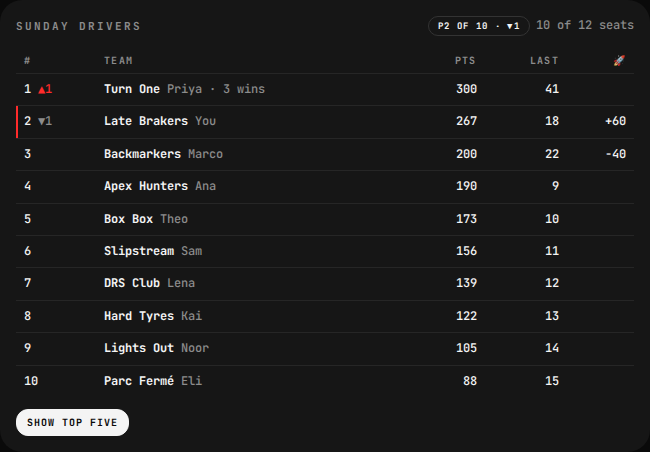
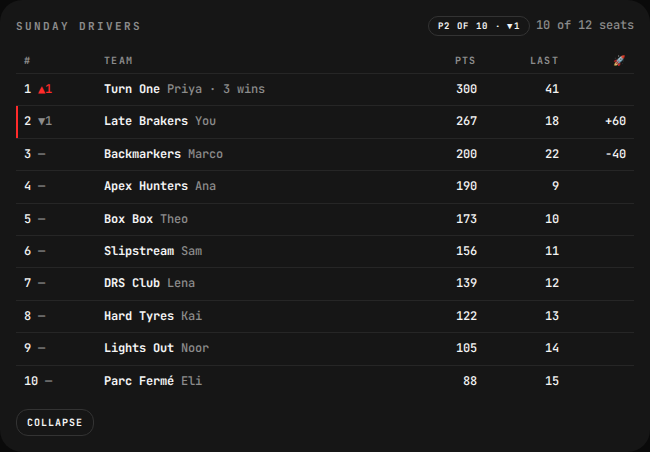
fix(pw): F-114 review — movement from the two server ranks, the table reachable on a phone, no example league for a signed-in reader
ADR-003 review of #194. Movement is previousRank − rank from the server's
fields (they rank every member document, pending ones included), never the
client's filtered index. A league of five or fewer gets a "Show table" chip on
a phone, where the collapsed state is one line. Only the example payload shows
the example league; a signed-in reader renders nothing until the team loads.
Moonshot points read from the member document as in the app; a refused teams
read falls back to member fields; a two-team player shows the first-seen team;
the context-bar league hides once a two-team player switches (it is the first
team's). aria-expanded on the chip, a hidden "(you)" on your row, the dead
`you` class dropped, the access key actually checked. The registry change is
rebuilt on origin/master (the earlier copy carried another branch's F-113 row).
Tests: tie-break by id, the example fixture, server-rank movement.

Changed region(s): [[0.0, 0.8982, 0.2154, 0.9912]]

diff --git a/web/pitwall/src/ui/LeagueTile.tsx b/web/pitwall/src/ui/LeagueTile.tsx
@@ -2,8 +2,9 @@
  * The league your team is in (F-114): name, size, your rank and movement, and the standings —
  * the table the app's league screen shows, read from the same documents. Free: it is the player's
  * own league. The example payload (and so the preview build the scroll budget measures) renders a
- * fixed example league with no request; a signed-in team without a league gets a pointer to the app.
- * Collapsed to the top five plus your row (on a phone, to one line); "Show all" opens it.
+ * fixed example league with no request; a signed-in reader renders nothing until their team has
+ * loaded (like the Moonshot tile), and a team without a league gets a pointer to the app.
+ * Collapsed to the top five plus your row (on a phone, to one line); the chip opens the table.
  */
 import { useEffect, useState } from 'react';
 import { useStore } from '../state';
@@ -12,25 +13,33 @@ import { hasFirebaseConfig } from '../lib/env';
 import { loadLeagueStandings } from '../lib/leagueApi';
 import { exampleStandings, moveLabel, visibleRows, type LeagueStandings } from '../data/leagueStandings';
 import { Lbl, Pill } from './bits';
+import { can } from '../data/access';
+
+const EXAMPLE = exampleStandings();
 
 export function LeagueTile() {
-  const { payload: p, real } = useStore();
+  const { payload: p, real, pass } = useStore();
   const uid = hasFirebaseConfig ? auth().currentUser?.uid ?? null : null;
   const leagueId = real?.team.leagueId ?? null;
   const [st, setSt] = useState<LeagueStandings | 'loading' | null>('loading');
   const [all, setAll] = useState(false);
-  const active = !!uid && !!leagueId && !!real && !p.example;
+  // only the example payload shows the example league: a signed-in reader whose team has not
+  // loaded yet, or who owns none, must not see a fake table that then swaps or never goes away
+  const example = p.example || !hasFirebaseConfig;
+  const active = !example && !!uid && !!leagueId;
 
   useEffect(() => {
     let live = true;
     setAll(false);
     if (!active || !uid || !leagueId) { setSt(null); return; }
     setSt('loading');
-    loadLeagueStandings(leagueId, uid).then((s) => { if (live) setSt(s); }).catch(() => { if (live) setSt(null); });
+    loadLeagueStandings(leagueId, uid).then((s) => { if (live) setSt(s); });
     return () => { live = false; };
   }, [active, uid, leagueId]);
 
-  const example = p.example || !real || !uid;
+  // free by key, not by omission: the player's own league is never behind the pass
+  if (!can(pass, 'league.standings')) return null;
+  if (!example && (!real || !uid)) return null;
   if (!example && !leagueId) {
     return (
       <section className="tile" aria-label="Your league">
@@ -39,31 +48,32 @@ export function LeagueTile() {
       </section>
     );
   }
-  const shown: LeagueStandings | 'loading' | null = example ? exampleStandings() : st;
+  const shown = example ? EXAMPLE : st;
   if (shown === 'loading') return <section className="tile" aria-label="Your league"><div className="th"><Lbl>League</Lbl></div><span className="mut">Loading the table…</span></section>;
   if (!shown) return <section className="tile" aria-label="Your league"><div className="th"><Lbl>League</Lbl></div><span className="mut">The league could not be read. Open it in the app to check your membership.</span></section>;
-  const st_ = shown;
 
-  const rows = visibleRows(st_.rows, all);
-  const me = st_.me;
+  const rows = visibleRows(shown.rows, all);
+  const me = shown.me;
+  const lead = shown.rows[0];
+  const many = shown.rows.length > 5;
   return (
-    <section className={`tile ${me ? 'you' : ''}`} aria-label={`Your league: ${st_.name}`}>
+    <section className="tile" aria-label={`Your league: ${shown.name}`}>
       <div className="th">
-        <Lbl>{st_.name}</Lbl>
+        <Lbl>{shown.name}</Lbl>
         <span className="srow">
-          {me ? <Pill red={me.rank === 1}>{`P${me.rank} of ${st_.size}`}{me.move ? ` · ${moveLabel(me.move)}` : ''}</Pill> : <span className="mut">{st_.size} team{st_.size === 1 ? '' : 's'}</span>}
-          {st_.max ? <span className="mut only-wide">{st_.size} of {st_.max} seats</span> : null}
+          {me ? <Pill red={me.rank === 1}>{`P${me.rank} of ${shown.size}`}{me.move != null ? ` · ${moveLabel(me.move)}` : ''}</Pill> : <span className="mut">{shown.size} team{shown.size === 1 ? '' : 's'}</span>}
+          {shown.max ? <span className="mut only-wide">{shown.size} of {shown.max} seats</span> : null}
         </span>
       </div>
-      {/* a phone gets one line until "Show all": the Lab stacks this tile above the swap tiles there, and the slot-open state sits at the scroll budget */}
-      {!all ? <span className="mut only-narrow">{st_.rows[0] ? `${st_.rows[0].team} leads on ${st_.rows[0].points.toLocaleString()}` : 'No results yet'}{me && me.rank > 1 ? ` · you are on ${me.points.toLocaleString()}` : ''}. Show all for the table.</span> : null}
-      <div className={`scroll ${all ? '' : 'only-wide'}`}><table>
+      {/* a phone gets one line until the chip opens the table: the Lab stacks this tile above the swap tiles there, and the slot-open state sits at the scroll budget */}
+      {!all ? <span className="mut only-narrow">{lead ? `${lead.team} leads on ${lead.points.toLocaleString()}` : 'No results yet'}{me && me.rank > 1 ? ` · you are on ${me.points.toLocaleString()}` : ''}.</span> : null}
+      <div id="league-table" className={`scroll ${all ? '' : 'only-wide'}`}><table>
         <thead><tr><th scope="col">#</th><th scope="col" style={{ textAlign: 'left' }}>Team</th><th scope="col">Pts</th><th scope="col" className="only-wide">Last</th><th scope="col"><span className="visually-hidden">Moonshot points</span><span aria-hidden="true">🚀</span></th></tr></thead>
         <tbody>
           {rows.map((r) => (
             <tr key={r.userId} className={r.me ? 'me' : ''}>
-              <td className="num">{r.rank}{r.move ? <span className={r.move > 0 ? 'red' : 'mut'}> {moveLabel(r.move)}</span> : null}</td>
-              <td style={{ textAlign: 'left' }}><b>{r.team}</b> <span className="mut">{r.manager}{r.wins ? ` · ${r.wins} win${r.wins === 1 ? '' : 's'}` : ''}</span></td>
+              <td className="num">{r.rank}{r.move != null ? <span className={r.move > 0 ? 'red' : 'mut'}> {moveLabel(r.move)}</span> : null}</td>
+              <td style={{ textAlign: 'left' }}><b>{r.team}</b> <span className="mut">{r.manager}{r.wins ? ` · ${r.wins} win${r.wins === 1 ? '' : 's'}` : ''}</span>{r.me ? <span className="visually-hidden"> (you)</span> : null}</td>
               <td className="num">{r.points.toLocaleString()}</td>
               <td className="num only-wide">{r.lastRace == null ? '—' : r.lastRace}</td>
               <td className="num">{r.moonshot ? (r.moonshot > 0 ? `+${r.moonshot}` : String(r.moonshot)) : ''}</td>
@@ -71,11 +81,11 @@ export function LeagueTile() {
           ))}
         </tbody>
       </table></div>
-      {st_.rows.length > 5 ? (
-        <button type="button" className="chip" style={{ alignSelf: 'flex-start' }} aria-pressed={all} onClick={() => setAll((v) => !v)}>
-          {all ? 'Show top five' : `Show all ${st_.rows.length}`}
-        </button>
-      ) : null}
+      {/* more than five teams: the chip toggles the full table everywhere; five or fewer: the table is
+          already complete on a wide screen, so the chip exists only for the phone's one-line state */}
+      <button type="button" className={`chip ${many ? '' : 'only-narrow'}`} style={{ alignSelf: 'flex-start' }} aria-expanded={all} aria-controls="league-table" onClick={() => setAll((v) => !v)}>
+        {all ? 'Collapse' : many ? `Show all ${shown.rows.length}` : 'Show table'}
+      </button>
     </section>
   );
 }

diff --git a/web/pitwall/src/data/leagueStandings.test.ts b/web/pitwall/src/data/leagueStandings.test.ts
@@ -1,11 +1,13 @@
 import { describe, expect, it } from 'vitest';
-import { buildStandings, moveLabel, standingsRows, visibleRows, type MemberDoc, type TeamInLeague } from './leagueStandings';
+import { buildStandings, exampleStandings, moveLabel, standingsRows, visibleRows, type MemberDoc, type TeamInLeague } from './leagueStandings';
 
 const members: MemberDoc[] = [
-  { id: 'u-bob', displayName: 'Bob', totalPoints: 300, previousRank: 2, lastRacePoints: 40, raceWins: 2 },
-  { id: 'u-me', displayName: 'Nathan', totalPoints: 267, previousRank: 1, lastRacePoints: 12, moonshotPoints: 30 },
-  { id: 'u-cat', displayName: 'Cat', totalPoints: 267, lastRacePoints: 20 },
-  { id: 'u-dan', displayName: 'Dan', totalPoints: 100, status: 'pending' },
+  // server ranks count the pending member too (rank 4 here), so movement must come from them, not from the row index
+  { id: 'u-bob', displayName: 'Bob', totalPoints: 300, rank: 1, previousRank: 2, lastRacePoints: 40, raceWins: 2 },
+  { id: 'u-me', displayName: 'Nathan', totalPoints: 267, rank: 3, previousRank: 1, lastRacePoints: 12, moonshotPoints: 30 },
+  { id: 'u-cat', displayName: 'Cat', totalPoints: 267, rank: 2, lastRacePoints: 20 },
+  { id: 'u-dan', displayName: 'Dan', totalPoints: 100, rank: 4, previousRank: 4, status: 'pending' },
+  { id: 'u-gus', displayName: 'Gus', totalPoints: 95, rank: 5, previousRank: 5, lastRacePoints: 3 },
   { id: 'u-eve', displayName: 'Eve', totalPoints: 90, isWithdrawn: true },
   { id: 'u-fay', totalPoints: 'x' },
 ];
@@ -15,29 +17,34 @@ const teams: TeamInLeague[] = [
 ];
 
 describe('standingsRows', () => {
-  it('orders like the server (total, then last race, then id), ranks by position, and reads movement from previousRank', () => {
+  it('orders like the server (total, then last race, then id), ranks by position, and reads movement from the two server ranks', () => {
     const rows = standingsRows(members, teams, 'u-me');
     expect(rows.map((r) => [r.rank, r.team, r.manager, r.points, r.move])).toEqual([
       [1, 'Turn One', 'Bob', 300, 1],          // was 2nd, now 1st
       [2, 'Team', 'Cat', 267, null],           // tied on points, ahead on last race; never ranked before → no arrow
       [3, 'Late Brakers', 'Nathan', 267, -2],  // was 1st
-      [4, 'Team', 'Manager', 0, null],         // a malformed doc still gets a row, at the foot
+      [4, 'Team', 'Gus', 95, 0],               // shown 4th because the pending member is filtered, but the server has him 5th → 5 − 5 = held, not a fake ▲1
+      [5, 'Team', 'Manager', 0, null],         // a malformed doc still gets a row, at the foot
     ]);
     expect(rows.find((r) => r.me)?.userId).toBe('u-me');
     expect(rows.map((r) => r.userId)).not.toContain('u-dan');   // pending
     expect(rows.map((r) => r.userId)).not.toContain('u-eve');   // withdrawn
     expect(rows[2].moonshot).toBe(30);
     expect(rows[0].wins).toBe(2);
+    // equal total and equal last race: the id decides, as on the server
+    const tied = standingsRows([{ id: 'u-zed', totalPoints: 50, lastRacePoints: 5 }, { id: 'u-amy', totalPoints: 50, lastRacePoints: 5 }], [], null);
+    expect(tied.map((r) => r.userId)).toEqual(['u-amy', 'u-zed']);
   });
   it('buildStandings carries the league line and the viewer row', () => {
     const s = buildStandings({ id: 'L1', name: '', maxMembers: 12 }, members, teams, 'u-cat');
-    expect([s.name, s.size, s.max, s.me?.rank]).toEqual(['League', 4, 12, 2]);
+    expect([s.name, s.size, s.max, s.me?.rank]).toEqual(['League', 5, 12, 2]);
+    expect(standingsRows(members, [...teams, { id: 't9', userId: 'u-bob', name: 'Second Car', moonshotPoints: 0 }], null)[0].team).toBe('Turn One');   // first-seen team for a two-team player
     expect(buildStandings({ id: 'L1', name: 'Sunday Drivers', maxMembers: null }, members, teams, null).me).toBeNull();
   });
 });
 
 describe('visibleRows', () => {
-  const rows = standingsRows(Array.from({ length: 9 }, (_, i) => ({ id: `u${i}`, totalPoints: 900 - i * 100 })), [], 'u7');
+  const rows = standingsRows(Array.from({ length: 9 }, (_, i) => ({ id: `u${i}`, totalPoints: 900 - i * 100, rank: i + 1 })), [], 'u7');
   it('collapsed shows the top five plus the viewer when they sit lower; expanded shows all', () => {
     expect(visibleRows(rows, false).map((r) => r.rank)).toEqual([1, 2, 3, 4, 5, 8]);
     expect(visibleRows(rows, true).length).toBe(9);
@@ -46,5 +53,14 @@ describe('visibleRows', () => {
   });
   it('moveLabel', () => {
     expect([moveLabel(null), moveLabel(0), moveLabel(2), moveLabel(-1)]).toEqual(['', '—', '▲2', '▼1']);
+  });
+});
+
+describe('exampleStandings', () => {
+  it('is the ten-team example league the preview renders, with the viewer second and every name filled', () => {
+    const ex = exampleStandings();
+    expect([ex.name, ex.size, ex.max, ex.me?.rank, ex.me?.move]).toEqual(['Sunday Drivers', 10, 12, 2, -1]);
+    expect(ex.rows.every((r) => r.team && r.manager && r.team !== 'Team' && r.manager !== 'Manager')).toBe(true);
+    expect(ex.rows.map((r) => r.rank)).toEqual([1, 2, 3, 4, 5, 6, 7, 8, 9, 10]);
   });
 });

diff --git a/web/pitwall/src/data/leagueStandings.ts b/web/pitwall/src/data/leagueStandings.ts
@@ -2,8 +2,11 @@
  * The league a team is in, as a standings table (F-114). Pure: the Firestore reads live in
  * lib/leagueApi.ts. The order mirrors the server's `orderMembers` (functions/src/scoring/
  * standingsFields.ts): season total descending, then last race, then id — and the rank shown is
- * the position in that order, the way the app's league screen shows it. Movement comes from the
- * server's `previousRank` (stamped once per race), so a first-time member shows no fake climb.
+ * the position in that order, the way the app's league screen shows it. Movement compares two
+ * SERVER-written ranks (`previousRank` − `rank`, stamped once per race over every member document,
+ * pending ones included), never the client's filtered index — a pending member ranked above you
+ * would otherwise hand everyone below a fake climb (the app's standings.ts makes the same point).
+ * A first-time member has no `previousRank` and shows no arrow.
  */
 
 /** `leagues/{id}/members/{uid}` as read, every field unknown until checked. */
@@ -35,7 +38,9 @@ const str = (v: unknown): string => (typeof v === 'string' ? v.trim() : '');
 export const counts = (m: MemberDoc): boolean => m.status !== 'pending' && m.isWithdrawn !== true;
 
 export function standingsRows(members: MemberDoc[], teams: TeamInLeague[], uid: string | null): StandingRow[] {
-  const byUser = new Map(teams.map((t) => [t.userId, t]));
+  // first-seen wins, as the app's league screen does, for a player with two teams in one league
+  const byUser = new Map<string, TeamInLeague>();
+  for (const t of teams) if (!byUser.has(t.userId)) byUser.set(t.userId, t);
   const rows = members.filter(counts).map((m) => {
     const t = byUser.get(m.id) ?? null;
     return {
@@ -46,15 +51,16 @@ export function standingsRows(members: MemberDoc[], teams: TeamInLeague[], uid: 
       rank: 0,
       move: null as number | null,
       prev: num(m.previousRank),
+      srv: num(m.rank),
       points: num(m.totalPoints) ?? 0,
       lastRace: num(m.lastRacePoints),
-      moonshot: t?.moonshotPoints ?? num(m.moonshotPoints) ?? 0,
+      moonshot: num(m.moonshotPoints) ?? t?.moonshotPoints ?? 0,   // the member document is what the app shows; the team is the fallback
       wins: num(m.raceWins) ?? 0,
       me: uid != null && m.id === uid,
     };
   });
   rows.sort((a, b) => b.points - a.points || (b.lastRace ?? 0) - (a.lastRace ?? 0) || (a.userId < b.userId ? -1 : a.userId > b.userId ? 1 : 0));
-  return rows.map(({ prev, ...r }, i) => ({ ...r, rank: i + 1, move: prev == null ? null : prev - (i + 1) }));
+  return rows.map(({ prev, srv, ...r }, i) => ({ ...r, rank: i + 1, move: prev == null || srv == null ? null : prev - srv }));
 }
 
 export function buildStandings(league: { id: string; name: string; maxMembers: number | null }, members: MemberDoc[], teams: TeamInLeague[], uid: string | null): LeagueStandings {
@@ -76,10 +82,10 @@ export const moveLabel = (move: number | null): string => (move == null ? '' : m
 /** The example league the preview renders — ten teams, as the example payload's league line says: never a request. */
 export function exampleStandings(): LeagueStandings {
   const members: MemberDoc[] = [
-    { id: 'ex-t2', displayName: 'Priya', totalPoints: 300, previousRank: 2, lastRacePoints: 41, raceWins: 3 },
-    { id: 'ex-me', displayName: 'You', totalPoints: 267, previousRank: 1, lastRacePoints: 18, moonshotPoints: 60 },
-    { id: 'ex-t3', displayName: 'Marco', totalPoints: 200, previousRank: 3, lastRacePoints: 22 },
-    ...['Ana', 'Theo', 'Sam', 'Lena', 'Kai', 'Noor', 'Eli'].map((n, i) => ({ id: `ex-${n.toLowerCase()}`, displayName: n, totalPoints: 190 - i * 17, previousRank: 4 + i, lastRacePoints: 9 + i })),
+    { id: 'ex-t2', displayName: 'Priya', totalPoints: 300, rank: 1, previousRank: 2, lastRacePoints: 41, raceWins: 3 },
+    { id: 'ex-me', displayName: 'You', totalPoints: 267, rank: 2, previousRank: 1, lastRacePoints: 18, moonshotPoints: 60 },
+    { id: 'ex-t3', displayName: 'Marco', totalPoints: 200, rank: 3, previousRank: 3, lastRacePoints: 22 },
+    ...['Ana', 'Theo', 'Sam', 'Lena', 'Kai', 'Noor', 'Eli'].map((n, i) => ({ id: `ex-${n.toLowerCase()}`, displayName: n, totalPoints: 190 - i * 17, rank: 4 + i, previousRank: 4 + i, lastRacePoints: 9 + i })),
   ];
   const teams: TeamInLeague[] = [
     { id: 'ex-t2', userId: 'ex-t2', name: 'Turn One', moonshotPoints: 0 },

diff --git a/web/pitwall/src/ui/Shell.tsx b/web/pitwall/src/ui/Shell.tsx
@@ -11,7 +11,7 @@ export const DISCLAIMER = 'Unofficial. Not affiliated with any racing series, te
 
 /** Sticky context bar: round, session state, lock countdown, the user's team and bank. It drives every page. */
 export function ContextBar({ page, account, onSignOut }: { page: PageName; account: Account | null; onSignOut?: () => void }) {
-  const { payload: p, ui, go } = useStore();
+  const { payload: p, ui, go, real } = useStore();
   // F-103: both deadlines below are compared against the clock, and nothing else in this bar
   // re-renders on its own — so an idle tab would have sat on "Locks in 00h 01m" straight past
   // the lock. Thirty seconds is finer than the smallest unit either line shows.
@@ -55,8 +55,9 @@ export function ContextBar({ page, account, onSignOut }: { page: PageName; accou
           })()}</div>
         <div className="grp">
           <span className="mut">Team</span><span>{account?.teamName ?? (account ? 'No team yet' : 'Late Brakers')}</span>
-          {/* F-114: the league is the context a team plays in; it was nowhere in the portal before the Lab tile */}
-          {account?.leagueName ? <><span className="mut only-wide">League</span><span className="only-wide">{account.leagueName}</span></> : null}
+          {/* F-114: the league is the context a team plays in; it was nowhere in the portal before the Lab tile.
+              The account's league is the FIRST team's, so it hides once a two-team player switches — the tile carries the right one */}
+          {account?.leagueName && (!real || real.teams[0]?.id === real.team.id) ? <><span className="mut only-wide">League</span><span className="only-wide">{account.leagueName}</span></> : null}
           <span className="mut">Bank</span><span className="num">{account ? (account.bank === null ? '—' : money(account.bank)) : money(bank(p, ui.lineup))}</span>
           <span className="mut only-wide">Proj</span><span className="num only-wide">{(() => { const q = projectedLineup(p, ui.lineup); return q.complete ? `${q.points} pts` : '—'; })()}</span>
         </div>

diff --git a/web/pitwall/src/lib/leagueApi.ts b/web/pitwall/src/lib/leagueApi.ts
@@ -32,15 +32,18 @@ export async function loadLeagueDoc(leagueId: string, season: string, round: num
 export async function loadLeagueStandings(leagueId: string, uid: string): Promise<LeagueStandings | null> {
   try {
     const { m, db } = await firestore();
+    // the members query orders by totalPoints, so a document with no such key is not returned at
+    // all (the rules require it on create); the teams read is the one that may be refused without
+    // losing the table — member documents carry teamName and moonshotPoints themselves
     const [league, members, teams] = await Promise.all([
       m.getDoc(m.doc(db, 'leagues', leagueId)),
       m.getDocs(m.query(m.collection(db, 'leagues', leagueId, 'members'), m.orderBy('totalPoints', 'desc'), m.limit(100))),
-      m.getDocs(m.query(m.collection(db, 'fantasyTeams'), m.where('leagueId', '==', leagueId), m.limit(100))),
+      m.getDocs(m.query(m.collection(db, 'fantasyTeams'), m.where('leagueId', '==', leagueId), m.limit(100))).catch(() => null),
     ]);
     if (!league.exists()) return null;
     const x = league.data() as Record<string, unknown>;
     const memberDocs: MemberDoc[] = members.docs.map((d) => ({ ...(d.data() as Record<string, unknown>), id: d.id }));
-    const teamDocs: TeamInLeague[] = teams.docs.map((d) => { const t = d.data() as Record<string, unknown>; return { id: d.id, userId: str(t.userId), name: str(t.name), moonshotPoints: num(t.moonshotPoints) }; }).filter((t) => t.userId);
+    const teamDocs: TeamInLeague[] = (teams?.docs ?? []).map((d) => { const t = d.data() as Record<string, unknown>; return { id: d.id, userId: str(t.userId), name: str(t.name), moonshotPoints: num(t.moonshotPoints) }; }).filter((t) => t.userId);
     return buildStandings({ id: leagueId, name: str(x.name), maxMembers: typeof x.maxMembers === 'number' ? x.maxMembers : null }, memberDocs, teamDocs, uid);
   } catch {
     return null;

diff --git a/.aidlc/specs/F-114.md b/.aidlc/specs/F-114.md
@@ -6,12 +6,12 @@ Created: 2026-10-08 · Status: building · Design source: the owner, 2026-10-08 
 Undercut (Pit Wall portal). The portal never read the league a team plays in: the only league surface was one number from the worker's per-round `pw_leagues` document (`Rank n of N` in the Briefing hero), and that document exists only for rounds the worker has published. A player opening Pit Wall could not see who they are racing, where they stand or how the table moved. This adds the league to Lineup Lab as a standings tile, read from the same documents the app's league screen reads, and names the league in the context bar on every page.
 
 ## Acceptance criteria
-- [ ] **A League tile on Lineup Lab**, right column above the Moonshot tile: the league name; a pill with your position (`P3 of 10`, red when first) and your movement since the last race (▲/▼ from the server's `previousRank`; nothing for a member never ranked before); seats used of `maxMembers`; then the table — rank with movement, team and manager (and race wins where any), season total, last race (wide screens), Moonshot points — with your row marked the way every other "you" row in the portal is. Collapsed to the top five plus your own row when it sits lower; a `Show all N` chip expands it, so the scroll budget measures both states.
-- [ ] **Order and rank are the server's.** `standingsRows` mirrors `orderMembers` (`functions/src/scoring/standingsFields.ts`: total, then last race, then id); rank is the position in that order, as the app's league screen shows it; a join awaiting approval and a withdrawn member are not in the table; a malformed member document still gets a row at the foot rather than breaking the page (tests).
-- [ ] **Read directly, no worker, no callable.** `loadLeagueStandings(leagueId, uid)` reads `leagues/{id}`, `leagues/{id}/members` (ordered by `totalPoints`, limit 100) and `fantasyTeams where leagueId == X` (team names and `moonshotPoints`) — the three reads the rules allow a league member (the `fantasyTeams` list shape F-112 kept open for exactly this). A refusal or failure renders "could not be read", never a thrown render.
-- [ ] **No request without a signed-in team.** The example payload — and so the preview build the scroll budget measures — renders a fixed ten-team example league from `exampleStandings()`; a signed-in team with no `leagueId` gets a pointer to the app. Two-team players switch league with the existing team chips (the tile keys on `real.team.leagueId`).
-- [ ] **The context bar names the league** beside the team name on every page, from the `Account.leagueName` the sign-in already loaded (wide screens).
-- [ ] Access key `league.standings` in the free set: the player's own league table is never behind the pass.
+- [ ] **A League tile on Lineup Lab**, right column above the Moonshot tile: the league name; a pill with your position (`P3 of 10`, red when first) and your movement since the last race (▲/▼ from the server's `previousRank`; nothing for a member never ranked before); seats used of `maxMembers`; then the table — rank with movement, team and manager (and race wins where any), season total, last race (wide screens), Moonshot points — with your row marked the way every other "you" row in the portal is. Collapsed to the top five plus your own row when it sits lower; on a phone the collapsed state is one line (`Turn One leads on 300 · you are on 267`) because the Lab stacks this tile above the swap tiles there and the slot-open state sits at the scroll budget; a chip (`Show all N`, or `Show table` on a phone for a league of five or fewer) opens the full table everywhere, so the scroll budget measures both states.
+- [ ] **Order and rank are the server's.** `standingsRows` mirrors `orderMembers` (`functions/src/scoring/standingsFields.ts`: total, then last race, then id); rank is the position in that order, as the app's league screen shows it; movement is `previousRank − rank` from the two server-written fields (which rank every member document, pending ones included), never the client's filtered index; a join awaiting approval and a withdrawn member are not in the table; a malformed member document still gets a row at the foot rather than breaking the page (a document with no `totalPoints` key at all is not returned by the ordered query — the rules require the key on create). Moonshot points come from the member document as in the app, the team document is the fallback; a player with two teams in one league shows the first-seen team (tests).
+- [ ] **Read directly, no worker, no callable.** `loadLeagueStandings(leagueId, uid)` reads `leagues/{id}`, `leagues/{id}/members` (ordered by `totalPoints`, limit 100) and `fantasyTeams where leagueId == X` (team names and `moonshotPoints`) — the three reads the rules allow a league member (the `fantasyTeams` list shape F-112 kept open for exactly this). A refused teams read falls back to the member documents' own `teamName`/`moonshotPoints`; a refused members read renders "could not be read", never a thrown render.
+- [ ] **No request without a signed-in team, no example league for a signed-in reader.** Only the example payload (and so the preview build the scroll budget measures) renders the fixed ten-team example league from `exampleStandings()` (test); a signed-in reader renders nothing until their team has loaded, a team with no `leagueId` gets a pointer to the app. Two-team players switch league with the existing team chips (the tile keys on `real.team.leagueId`).
+- [ ] **The context bar names the league** beside the team name on every page, from the `Account.leagueName` the sign-in already loaded (wide screens) — that is the first team's league, so it hides once a two-team player switches teams; the tile carries the right one.
+- [ ] Access key `league.standings` in the free set and checked by the tile (`can`): the player's own league table is never behind the pass. A member whose join is still pending can read the table — the F-112 rules decision, the same as the app's league screen under its approval banner.
 
 ## Targets
 - web (Pit Wall portal only; no app, functions or rules change)
